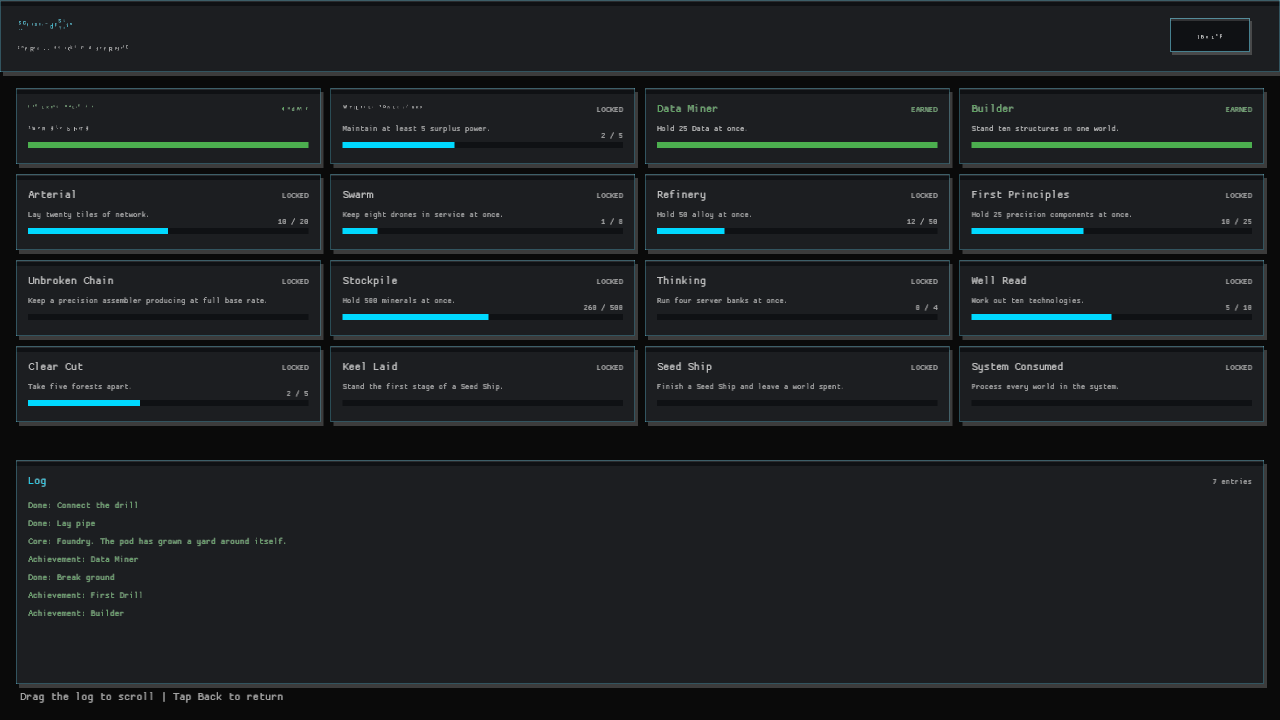
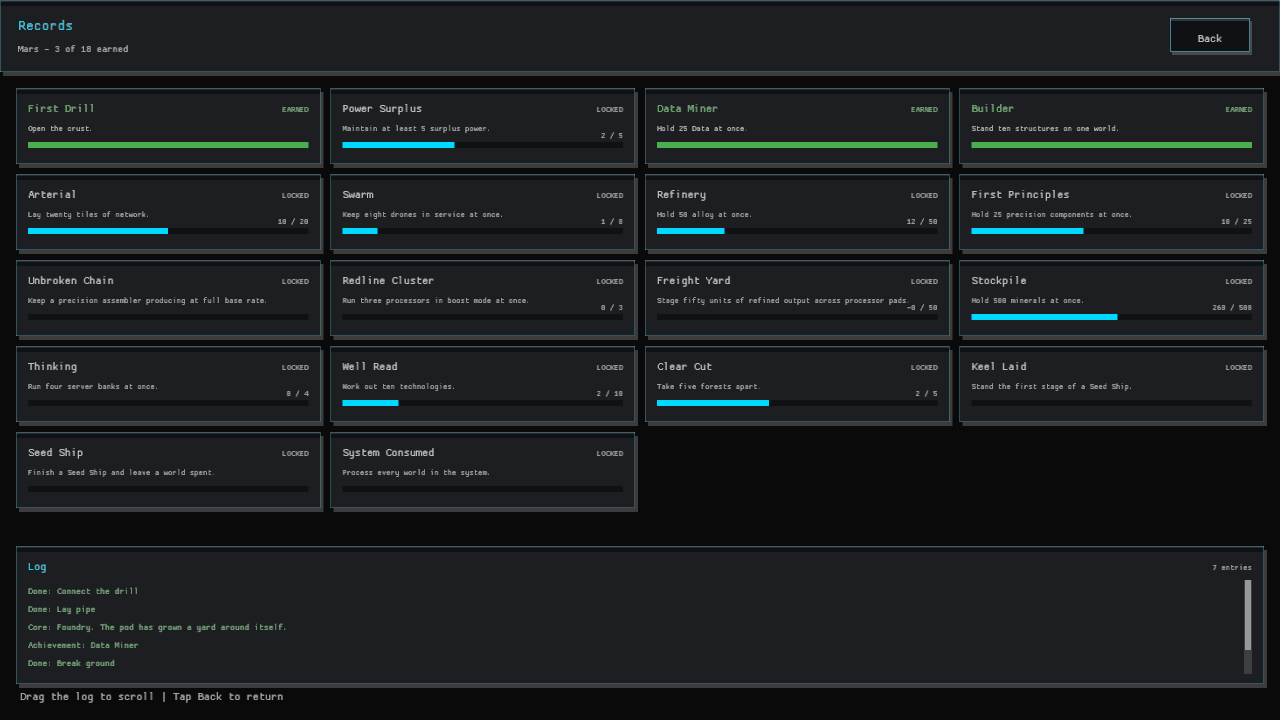
The swarm remembers the scale of its appetite (factory-system Records achievements)
Boost clusters and refined-output yards created meaningful factory goals but no authored acknowledgement. Records now includes Redline Cluster for three simultaneous boosted processors and Freight Yard for fifty units staged across processor pads.

Both conditions use the shared milestone vocabulary, report live numeric progress, persist through the existing achievement system, and explicitly exclude drill ore from refined-output staging. The Records verification capture confirms all eighteen cards remain legible.

diff --git a/src/state/milestone.rs b/src/state/milestone.rs
@@ -24,6 +24,8 @@ pub enum Milestone {
     AlloyHeld,
     ComponentsHeld,
     ComponentsRate,
+    BoostedProcessors,
+    ProcessorOutputHeld,
     Technologies,
     ForestsHarvested,
     PowerSurplus,
@@ -44,6 +46,8 @@ impl Milestone {
             Milestone::AlloyHeld => "alloy_held",
             Milestone::ComponentsHeld => "components_held",
             Milestone::ComponentsRate => "components_rate",
+            Milestone::BoostedProcessors => "boosted_processors",
+            Milestone::ProcessorOutputHeld => "processor_output_held",
             Milestone::Technologies => "technologies",
             Milestone::ForestsHarvested => "forests_harvested",
             Milestone::PowerSurplus => "power_surplus",
@@ -51,7 +55,7 @@ impl Milestone {
         }
     }
 
-    pub const ALL: [Milestone; 15] = [
+    pub const ALL: [Milestone; 17] = [
         Milestone::Manual,
         Milestone::Drills,
         Milestone::ServerBanks,
@@ -63,6 +67,8 @@ impl Milestone {
         Milestone::AlloyHeld,
         Milestone::ComponentsHeld,
         Milestone::ComponentsRate,
+        Milestone::BoostedProcessors,
+        Milestone::ProcessorOutputHeld,
         Milestone::Technologies,
         Milestone::ForestsHarvested,
         Milestone::PowerSurplus,
@@ -97,6 +103,34 @@ impl PlanetState {
             Milestone::AlloyHeld => self.resources.alloy,
             Milestone::ComponentsHeld => self.resources.components,
             Milestone::ComponentsRate => self.observed_components_rate(),
+            Milestone::BoostedProcessors => self
+                .grid
+                .iter_tiles()
+                .filter(|(_, tile)| {
+                    tile.building.as_ref().is_some_and(|building| {
+                        building.supports_overclock() && building.overclocked
+                    })
+                })
+                .count() as f32,
+            Milestone::ProcessorOutputHeld => crate::data::game_data()
+                .buildings
+                .iter()
+                .filter(|def| {
+                    def.recipe.outputs.iter().any(|(id, rate)| {
+                        *rate > 0.0
+                            && crate::engine::ResourceType::from_id(id)
+                                .is_some_and(crate::engine::ResourceType::is_physical)
+                    })
+                })
+                .filter_map(|def| BuildingType::from_id(&def.id))
+                .flat_map(|kind| self.grid.find_buildings(kind))
+                .map(|pos| {
+                    self.output_buffers
+                        .get(&(pos.x, pos.y))
+                        .copied()
+                        .unwrap_or(0.0)
+                })
+                .sum(),
             Milestone::Technologies => self.research.unlocked_techs.len() as f32,
             Milestone::ForestsHarvested => self.forest_harvested_count as f32,
             Milestone::PowerSurplus => self.power_balance.max(0.0),

diff --git a/src/state/achievements/tests.rs b/src/state/achievements/tests.rs
@@ -71,6 +71,38 @@ fn precision_parts_reward_both_stockpiling_and_a_stable_line() {
 }
 
 #[test]
+fn scaled_processor_modes_have_records_payoffs() {
+    let mut state = state();
+    let core = state.grid.find_core().unwrap();
+    for (step, kind) in [
+        BuildingType::Smelter,
+        BuildingType::Smelter,
+        BuildingType::Assembler,
+    ]
+    .into_iter()
+    .enumerate()
+    {
+        let pos = GridPos::new(core.x + step as i32 + 1, core.y);
+        state.grid.get_mut(pos).unwrap().terrain = crate::engine::TerrainType::Empty;
+        assert!(state.grid.place_building(pos, kind));
+        state
+            .grid
+            .get_mut(pos)
+            .unwrap()
+            .building
+            .as_mut()
+            .unwrap()
+            .overclocked = true;
+        state.output_buffers.insert((pos.x, pos.y), 20.0);
+    }
+
+    state.update_achievements();
+
+    assert!(state.achievements.is_unlocked("redline_cluster"));
+    assert!(state.achievements.is_unlocked("freight_yard"));
+}
+
+#[test]
 fn laying_network_is_counted_by_the_tiles_that_carry_drones() {
     let mut state = state();
     let core = state.grid.find_core().unwrap();

diff --git a/README.md b/README.md
@@ -37,6 +37,7 @@ Processor tiles carry their own live art: colored intake tanks show separate rec
 Drone dispatch counts stock already in each hopper plus cargo still in flight, feeding the leanest processor before using route distance as a tie-breaker.
 Processor dispatch pads are finite: a full alloy or components stack pauses that recipe without consuming more inputs, and appears as a blocked factory in the HUD and FLOW ledger.
 Research Buffer Lattices after Precision Assembly and Storage Optimization to expand every processor dispatch pad by 50%.
+Records now reward scaling the factory systems themselves: three simultaneous boosted processors earn Redline Cluster, while fifty staged units of refined output earn Freight Yard.
 
 Keyboard shortcuts are optional:
 
